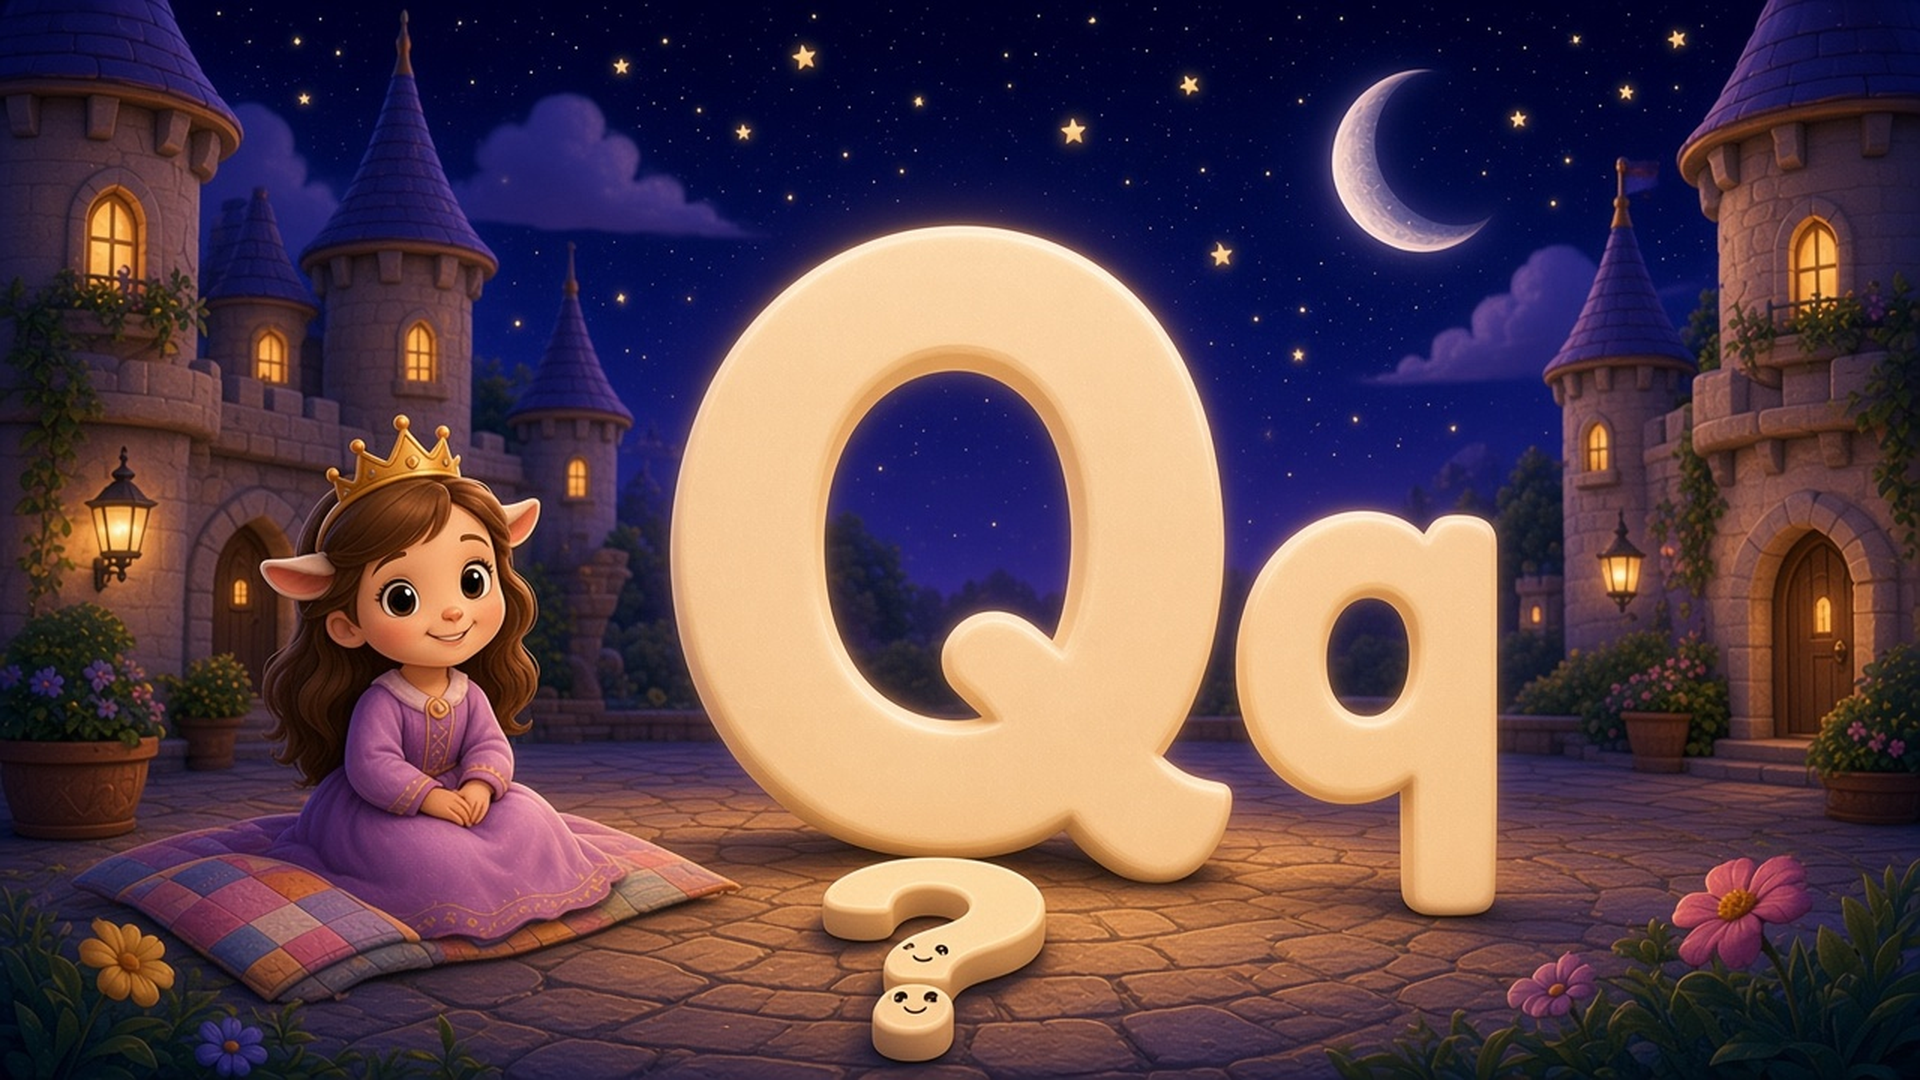
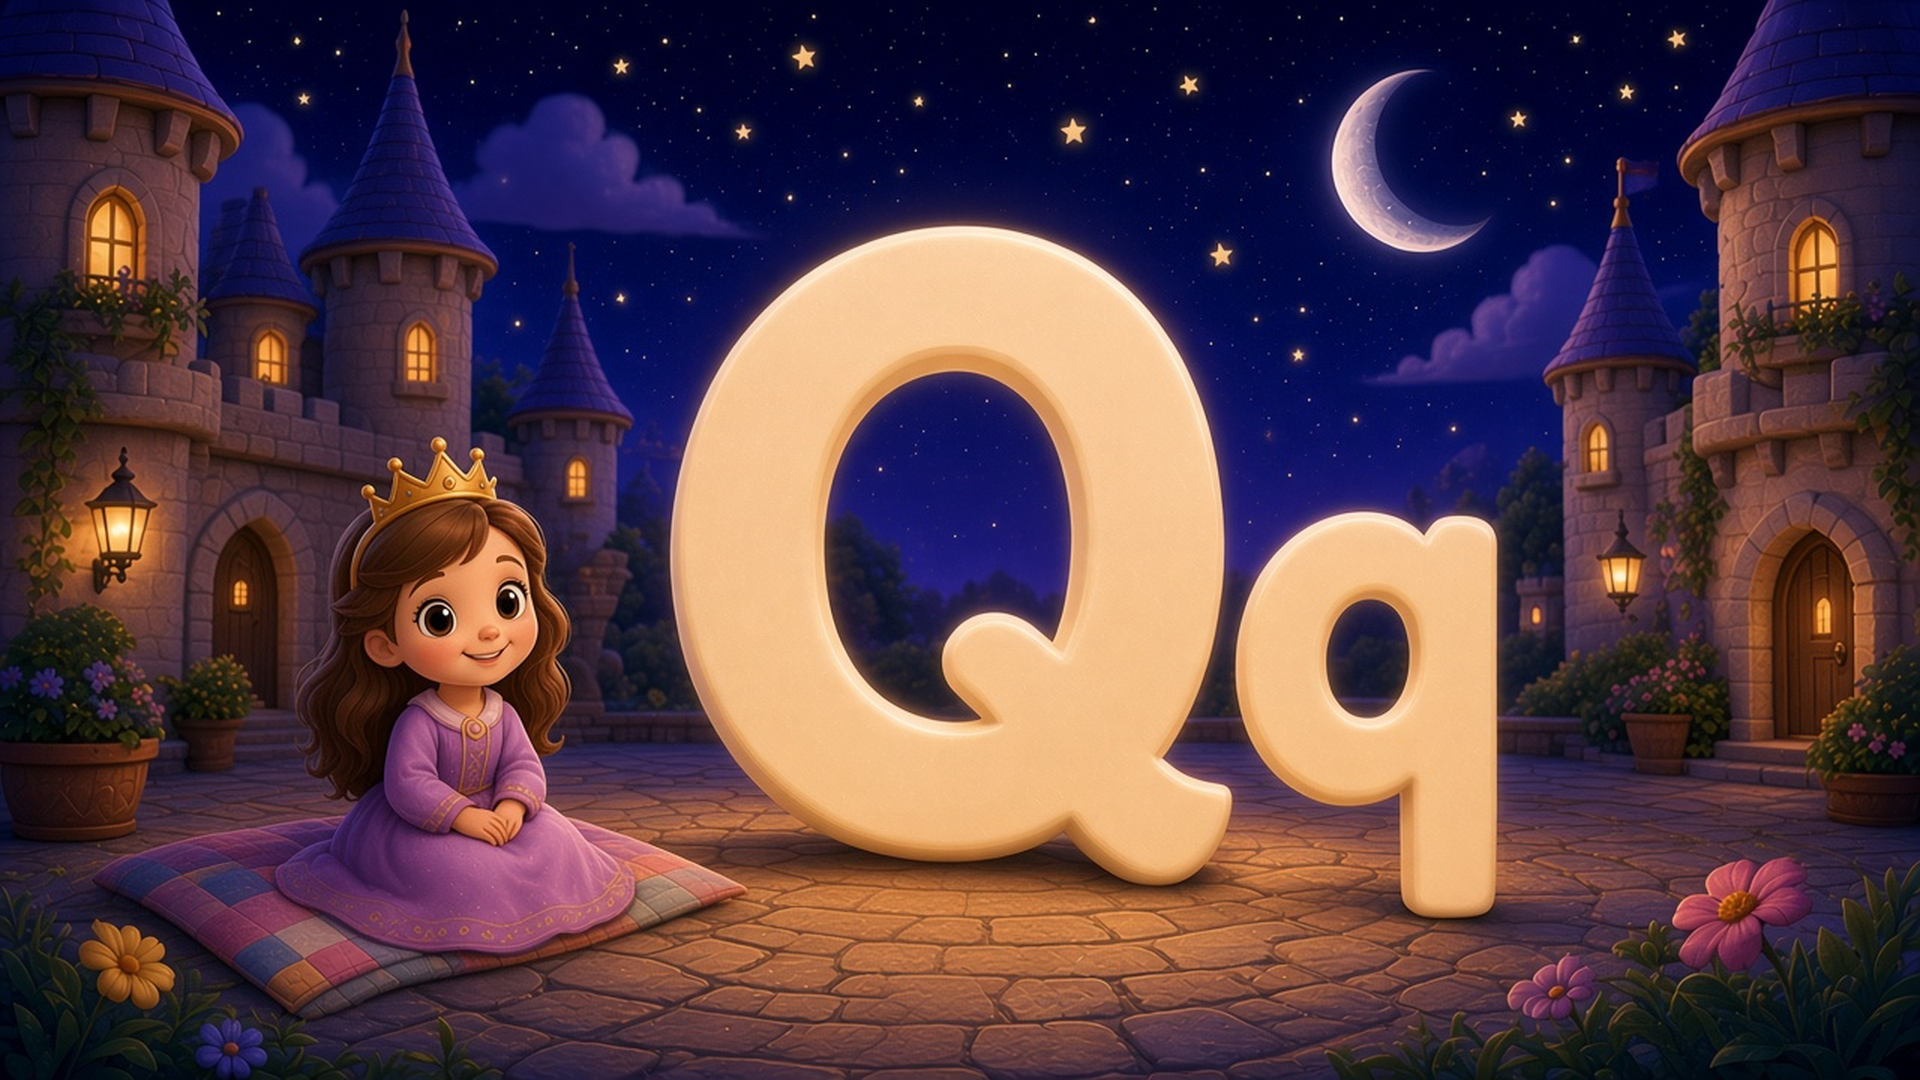
Publish U/Q/N/X/Y letter scenes and wire all word portraits.
Replace U/Q/N/X/Y packed paintings (no unicorn, no question-mark
character, nest+notebook without grass crescent, no box, no yacht).
U words become Umbrella/Up/Unicycle. Expand WORD_PICS for every
cycling word that has art (Spider keeps emoji). Zoom out N/X/Y
portrait crops so yak, yarn, and X mark stay in frame.

diff --git a/index.html b/index.html
@@ -202,7 +202,7 @@ body{background:#12102a;color:#f7f3e8}
 #letters.show-k{--cx:0.569;--fit:0.539}
 #letters.show-l{--cx:0.555;--fit:0.466}
 #letters.show-m{--cx:0.592;--fit:0.643}
-#letters.show-n{--cx:0.576;--fit:0.570}
+#letters.show-n{--cx:0.572;--fit:0.620}
 #letters.show-o{--cx:0.571;--fit:0.593}
 #letters.show-p{--cx:0.580;--fit:0.550}
 #letters.show-q{--cx:0.566;--fit:0.583}
@@ -212,8 +212,8 @@ body{background:#12102a;color:#f7f3e8}
 #letters.show-u{--cx:0.581;--fit:0.572}
 #letters.show-v{--cx:0.577;--fit:0.539}
 #letters.show-w{--cx:0.585;--fit:0.622}
-#letters.show-x{--cx:0.579;--fit:0.556}
-#letters.show-y{--cx:0.578;--fit:0.533}
+#letters.show-x{--cx:0.575;--fit:0.620}
+#letters.show-y{--cx:0.585;--fit:0.640}
 #letters.show-z{--cx:0.581;--fit:0.548}
 #letters .glow-pair{top:58%}
 #letters .glow-pair .upper{font-size:clamp(4.4rem,16vw,10.5rem)}
@@ -761,7 +761,7 @@ var LETTERS = [
   {c:'R',pics:[{w:'Rainbow',e:'🌈'},{w:'Rabbit',e:'🐰'},{w:'Robot',e:'🤖'}]},
   {c:'S',pics:[{w:'Sun',e:'☀'},{w:'Snake',e:'🐍'},{w:'Star',e:'⭐'},{w:'Spider',e:'🕷'}]},
   {c:'T',pics:[{w:'Tree',e:'🌳'},{w:'Tiger',e:'🐯'},{w:'Train',e:'🚂'}]},
-  {c:'U',pics:[{w:'Umbrella',e:'☂'},{w:'Up',e:'⬆'},{w:'Unicorn',e:'🦄'}]},
+  {c:'U',pics:[{w:'Umbrella',e:'☂'},{w:'Up',e:'⬆'},{w:'Unicycle',e:'🚲'}]},
   {c:'V',pics:[{w:'Van',e:'🚐'},{w:'Violin',e:'🎻'},{w:'Volcano',e:'🌋'}]},
   {c:'W',pics:[{w:'Whale',e:'🐋'},{w:'Wolf',e:'🐺'},{w:'Watermelon',e:'🍉'}]},
   {c:'X',pics:[{w:'X-ray',e:'🦴'},{w:'Xylophone',e:'🎼'},{w:'X mark',e:'❌'}]},
@@ -936,7 +936,7 @@ var LETTER_META = {
   R:{ipa:'/ɑɹ/ /ɹ/', prefer:['Rainbow','Rabbit','Robot']},
   S:{ipa:'/ɛs/ /s/', prefer:['Sun','Snake','Star','Spider']},
   T:{ipa:'/tiː/ /t/', prefer:['Tree','Tiger','Train']},
-  U:{ipa:'/juː/ /ʌ/', prefer:['Umbrella','Up']},
+  U:{ipa:'/juː/ /ʌ/', prefer:['Umbrella','Up','Unicycle']},
   V:{ipa:'/viː/ /v/', prefer:['Van','Violin','Volcano']},
   W:{ipa:'/ˈdʌbəl juː/ /w/', prefer:['Whale','Wolf','Watermelon']},
   X:{ipa:'/ɛks/ /ks/', prefer:['X-ray','Xylophone','X mark']},
@@ -1028,8 +1028,35 @@ function currentPic(){
   var L = LETTERS[li];
   return L.pics[picIdx % L.pics.length];
 }
-/* Painted word pictures for the left gold circle. Only A, B, C so far; everything else keeps its emoji. */
-var WORD_PICS = {Apple:'apple.png',Ant:'ant.png',Airplane:'airplane.png',Ball:'ball.png',Bear:'bear.png',Bus:'bus.png',Cat:'cat.png',Car:'car.png',Cookie:'cookie.png'};
+/* Painted word pictures for the left gold circle. Spider keeps emoji (no spider.png). */
+var WORD_PICS = {
+  Apple:'apple.png',Ant:'ant.png',Airplane:'airplane.png',
+  Ball:'ball.png',Bear:'bear.png',Bus:'bus.png',
+  Cat:'cat.png',Car:'car.png',Cookie:'cookie.png',
+  Dog:'dog.png',Duck:'duck.png',Dinosaur:'dinosaur.png',
+  Egg:'egg.png',Elephant:'elephant.png',Eagle:'eagle.png',
+  Fish:'fish.png',Frog:'frog.png',Flower:'flower.png',
+  Goat:'goat.png',Grapes:'grapes.png',Guitar:'guitar.png',
+  House:'house.png',Horse:'horse.png',Hat:'hat.png',
+  Igloo:'igloo.png',Iguana:'iguana.png','Ice cream':'ice-cream.png',
+  Juice:'juice.png',Jaguar:'jaguar.png',Jam:'jam.png',
+  Kite:'kite.png',Koala:'koala.png',Key:'key.png',
+  Lion:'lion.png',Leaf:'leaf.png',Ladybug:'ladybug.png',
+  Moon:'moon.png',Monkey:'monkey.png',Mouse:'mouse.png',
+  Nest:'nest.png',Notebook:'notebook.png',
+  Octopus:'octopus.png',Orange:'orange.png',Owl:'owl.png',
+  Pig:'pig.png',Penguin:'penguin.png',Pizza:'pizza.png',
+  Queen:'queen.png',Quilt:'quilt.png',
+  Rainbow:'rainbow.png',Rabbit:'rabbit.png',Robot:'robot.png',
+  Sun:'sun.png',Snake:'snake.png',Star:'star.png',
+  Tree:'tree.png',Tiger:'tiger.png',Train:'train.png',
+  Umbrella:'umbrella.png',Up:'up.png',Unicycle:'unicycle.png',
+  Van:'van.png',Violin:'violin.png',Volcano:'volcano.png',
+  Whale:'whale.png',Wolf:'wolf.png',Watermelon:'watermelon.png',
+  'X-ray':'x-ray.png',Xylophone:'xylophone.png','X mark':'x-mark.png',
+  'Yo-yo':'yo-yo.png',Yak:'yak.png',Yarn:'yarn.png',
+  Zebra:'zebra.png',Zoo:'zoo.png',Zipper:'zipper.png'
+};
 function renderLetter(){
   var L = LETTERS[li];
   if(picIdx >= L.pics.length) picIdx = 0;
